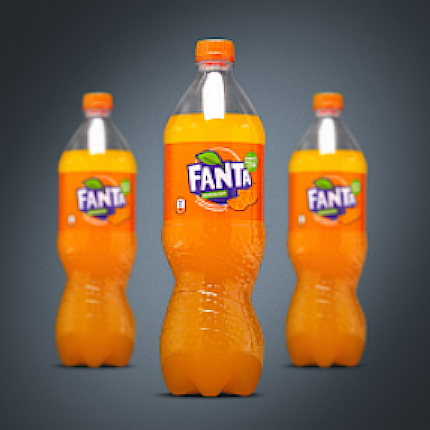
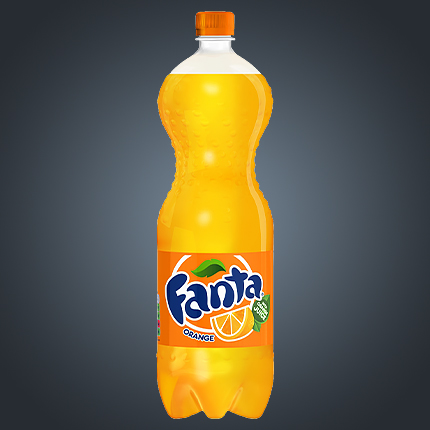
Edit drinks images

diff --git a/src/index.html b/src/index.html
@@ -746,10 +746,6 @@
               <div class="drinks-slider__img-box">
                 <div class="drinks-slider__img-item">
                   <div class="drinks-slider__img-bg"></div>
-                  <img src="./img/gallery/slider/drinks/1.jpg" alt="Бургер" />
-                </div>
-                <div class="drinks-slider__img-item">
-                  <div class="drinks-slider__img-bg"></div>
                   <img src="./img/gallery/slider/drinks/2.jpg" alt="Бургер" />
                 </div>
                 <div class="drinks-slider__img-item">
@@ -759,6 +755,10 @@
                 <div class="drinks-slider__img-item">
                   <div class="drinks-slider__img-bg"></div>
                   <img src="./img/gallery/slider/drinks/4.jpg" alt="Бургер" />
+                </div>
+                <div class="drinks-slider__img-item">
+                  <div class="drinks-slider__img-bg"></div>
+                  <img src="./img/gallery/slider/drinks/5.jpg" alt="Бургер" />
                 </div>
 
                 <div class="drinks-slider__img-item">
@@ -776,6 +776,10 @@
                 <div class="drinks-slider__img-item">
                   <div class="drinks-slider__img-bg"></div>
                   <img src="./img/gallery/slider/drinks/4.jpg" alt="Бургер" />
+                </div>
+                <div class="drinks-slider__img-item">
+                  <div class="drinks-slider__img-bg"></div>
+                  <img src="./img/gallery/slider/drinks/5.jpg" alt="Бургер" />
                 </div>
 
                 <div class="drinks-slider__img-item">

diff --git a/src/ts/sliders.ts b/src/ts/sliders.ts
@@ -1018,7 +1018,7 @@ desertwrapperEl.addEventListener('mouseleave', desertswipeLeave);
 // drinks
 export {};
 
-const drinksimagesLength = 4;
+const drinksimagesLength = 5;
 let drinkscurrentImage = 1;
 const drinksmode = 1;
 
